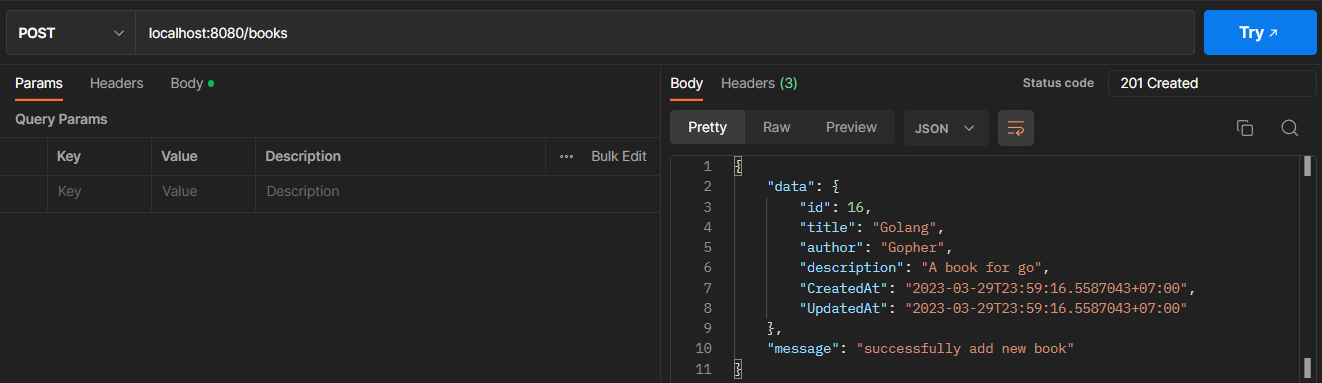
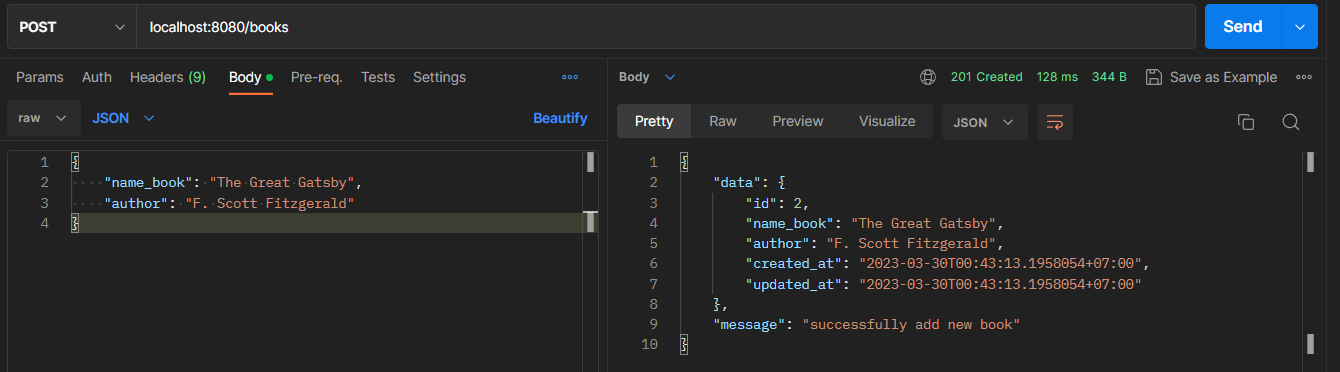
update request response data and add database file

diff --git a/09-GORM-Postgresql-RestAPI/controllers/bookController.go b/09-GORM-Postgresql-RestAPI/controllers/bookController.go
@@ -52,9 +52,8 @@ func CreateBook(ctx *gin.Context) {
 	}
 
 	// trim space from input
-	newBook.Title = strings.TrimSpace(newBook.Title)
+	newBook.Name_Book = strings.TrimSpace(newBook.Name_Book)
 	newBook.Author = strings.TrimSpace(newBook.Author)
-	newBook.Description = strings.TrimSpace(newBook.Description)
 
 	if err := db.Create(&newBook).Error; err != nil {
 		ctx.AbortWithStatusJSON(http.StatusBadRequest, gin.H{"message": err.Error()})
@@ -86,11 +85,10 @@ func UpdateBook(ctx *gin.Context) {
 	updatedBook := models.Book{}
 	err := ctx.ShouldBindJSON(&updatedBook)
 	// trim space from input
-	updatedBook.Title = strings.TrimSpace(updatedBook.Title)
+	updatedBook.Name_Book = strings.TrimSpace(updatedBook.Name_Book)
 	updatedBook.Author = strings.TrimSpace(updatedBook.Author)
-	updatedBook.Description = strings.TrimSpace(updatedBook.Description)
 
-	if err != nil || len(updatedBook.Title) < 2 || len(updatedBook.Author) < 2 || len(updatedBook.Description) < 5 {
+	if err != nil || len(updatedBook.Name_Book) < 2 || len(updatedBook.Author) < 2 {
 		ctx.AbortWithStatusJSON(http.StatusBadRequest, gin.H{
 			"message": "invalid inputs, please recheck your inputs",
 		})
@@ -105,6 +103,7 @@ func UpdateBook(ctx *gin.Context) {
 
 	ctx.JSON(http.StatusOK, gin.H{
 		"message": fmt.Sprintf("book with id %v successfully updated", bookID),
+		"data":    &book,
 	})
 }
 
@@ -128,6 +127,6 @@ func DeleteBook(ctx *gin.Context) {
 	}
 
 	ctx.JSON(http.StatusOK, gin.H{
-		"message": fmt.Sprintf("book with id %v has been successfully deleted", bookID),
+		"message": "Book deleted successfully",
 	})
 }

diff --git a/09-GORM-Postgresql-RestAPI/models/book.go b/09-GORM-Postgresql-RestAPI/models/book.go
@@ -9,21 +9,17 @@ import (
 
 type Book struct {
 	// *gorm.Model
-	ID          int    `gorm:"primaryKey" json:"id"`
-	Title       string `gorm:"not null;type:varchar(100)" json:"title" binding:"required"`
-	Author      string `gorm:"not null;type:varchar(100)" json:"author" binding:"required"`
-	Description string `gorm:"not null;type:text" json:"description" binding:"required"`
-	CreatedAt   time.Time
-	UpdatedAt   time.Time
+	ID        int       `gorm:"primaryKey" json:"id"`
+	Name_Book string    `gorm:"not null;type:varchar(100)" json:"name_book" binding:"required"`
+	Author    string    `gorm:"not null;type:varchar(100)" json:"author" binding:"required"`
+	CreatedAt time.Time `json:"created_at"`
+	UpdatedAt time.Time `json:"updated_at"`
 }
 
 // method || hooks
 func (b *Book) BeforeCreate(tx *gorm.DB) (err error) {
-	if len(b.Title) < 2 {
+	if len(b.Name_Book) < 2 {
 		err = errors.New("title is too short")
-	}
-	if len(b.Description) < 5 {
-		err = errors.New("description is too short")
 	}
 	if len(b.Author) < 2 {
 		err = errors.New("author is too short")
@@ -35,9 +31,6 @@ func (b *Book) BeforeCreate(tx *gorm.DB) (err error) {
 /* func (b *Book) BeforeUpdate(tx *gorm.DB) (err error) {
 	if len(b.Title) < 2 {
 		err = errors.New("title is too short")
-	}
-	if len(b.Description) < 5 {
-		err = errors.New("description is too short")
 	}
 	if len(b.Author) < 2 {
 		err = errors.New("author is too short")

diff --git a/09-GORM-Postgresql-RestAPI/database/db.go b/09-GORM-Postgresql-RestAPI/database/db.go
@@ -13,7 +13,7 @@ var (
 	port     = 5432
 	user     = "postgres"
 	password = "root"
-	dbname   = "simple_books_api"
+	dbname   = "gorm_challenge"
 	db       *gorm.DB
 	err      error
 )

diff --git a/09-GORM-Postgresql-RestAPI/README.md b/09-GORM-Postgresql-RestAPI/README.md
@@ -27,7 +27,7 @@ go run main.go
 ```
 
 ## Documentation
-https://documenter.getpostman.com/view/18726863/2s93RMVvWF
+https://documenter.getpostman.com/view/18726863/2s93RTPrWr
 
 ## Output
 ### Get All Books
